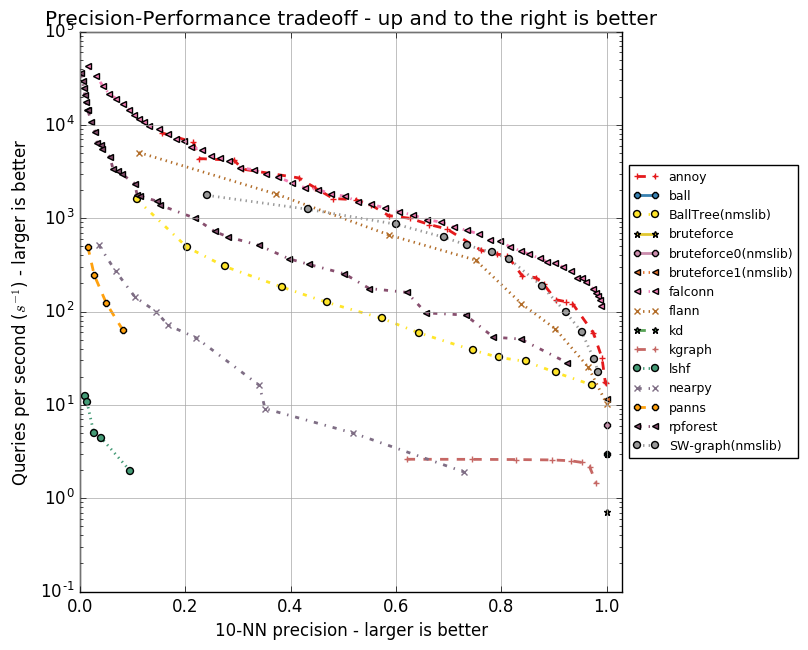
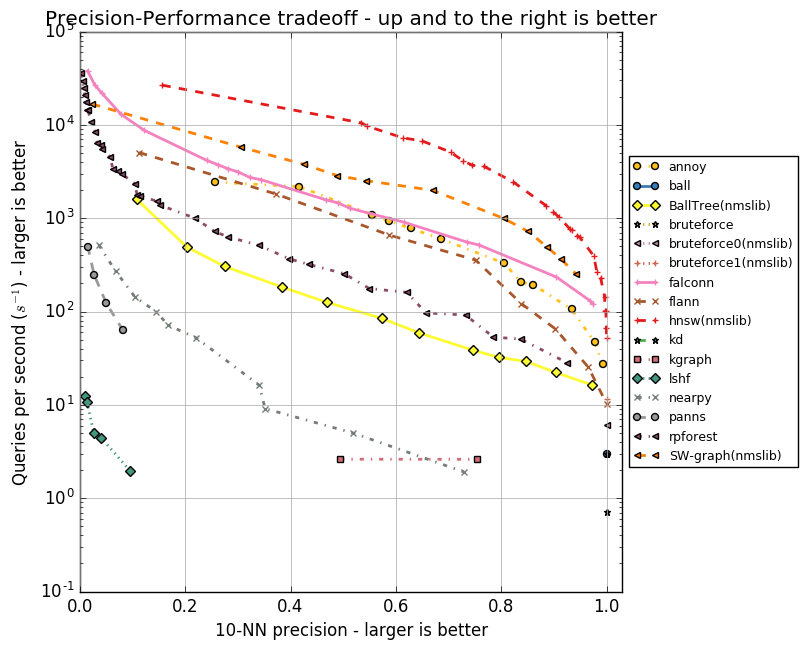
new results

diff --git a/plot.py b/plot.py
@@ -19,7 +19,7 @@ for fn in args.input:
 colors = plt.cm.Set1(numpy.linspace(0, 1, len(all_algos)))
 linestyles = {}
 for i, algo in enumerate(all_algos):
-    linestyles[algo] = (colors[i], ['--', '-.', '-', ':'][i%4], ['+', '<', '8', 'o', '*', 'x'][i%6])
+    linestyles[algo] = (colors[i], ['--', '-.', '-', ':'][i%4], ['+', '<', 'o', 'D', '*', 'x', 's'][i%7])
 
 # Now generate each plot
 for fn_in, fn_out in zip(args.input, args.output):
